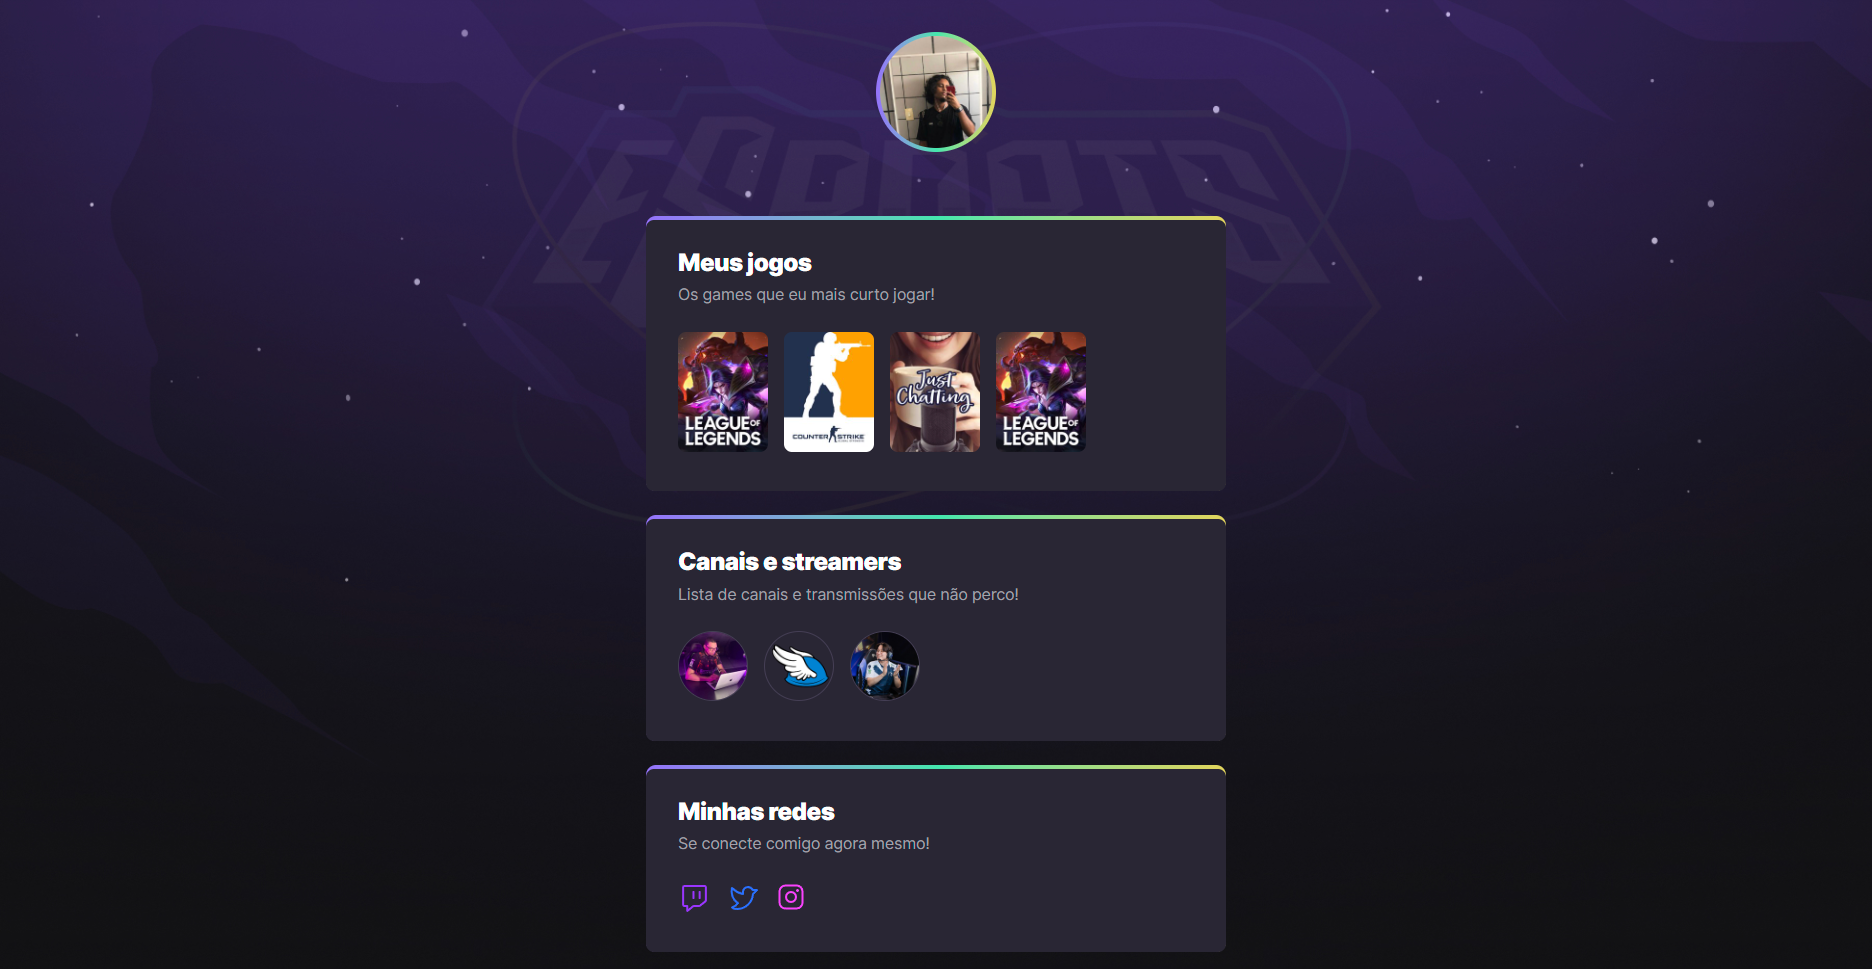
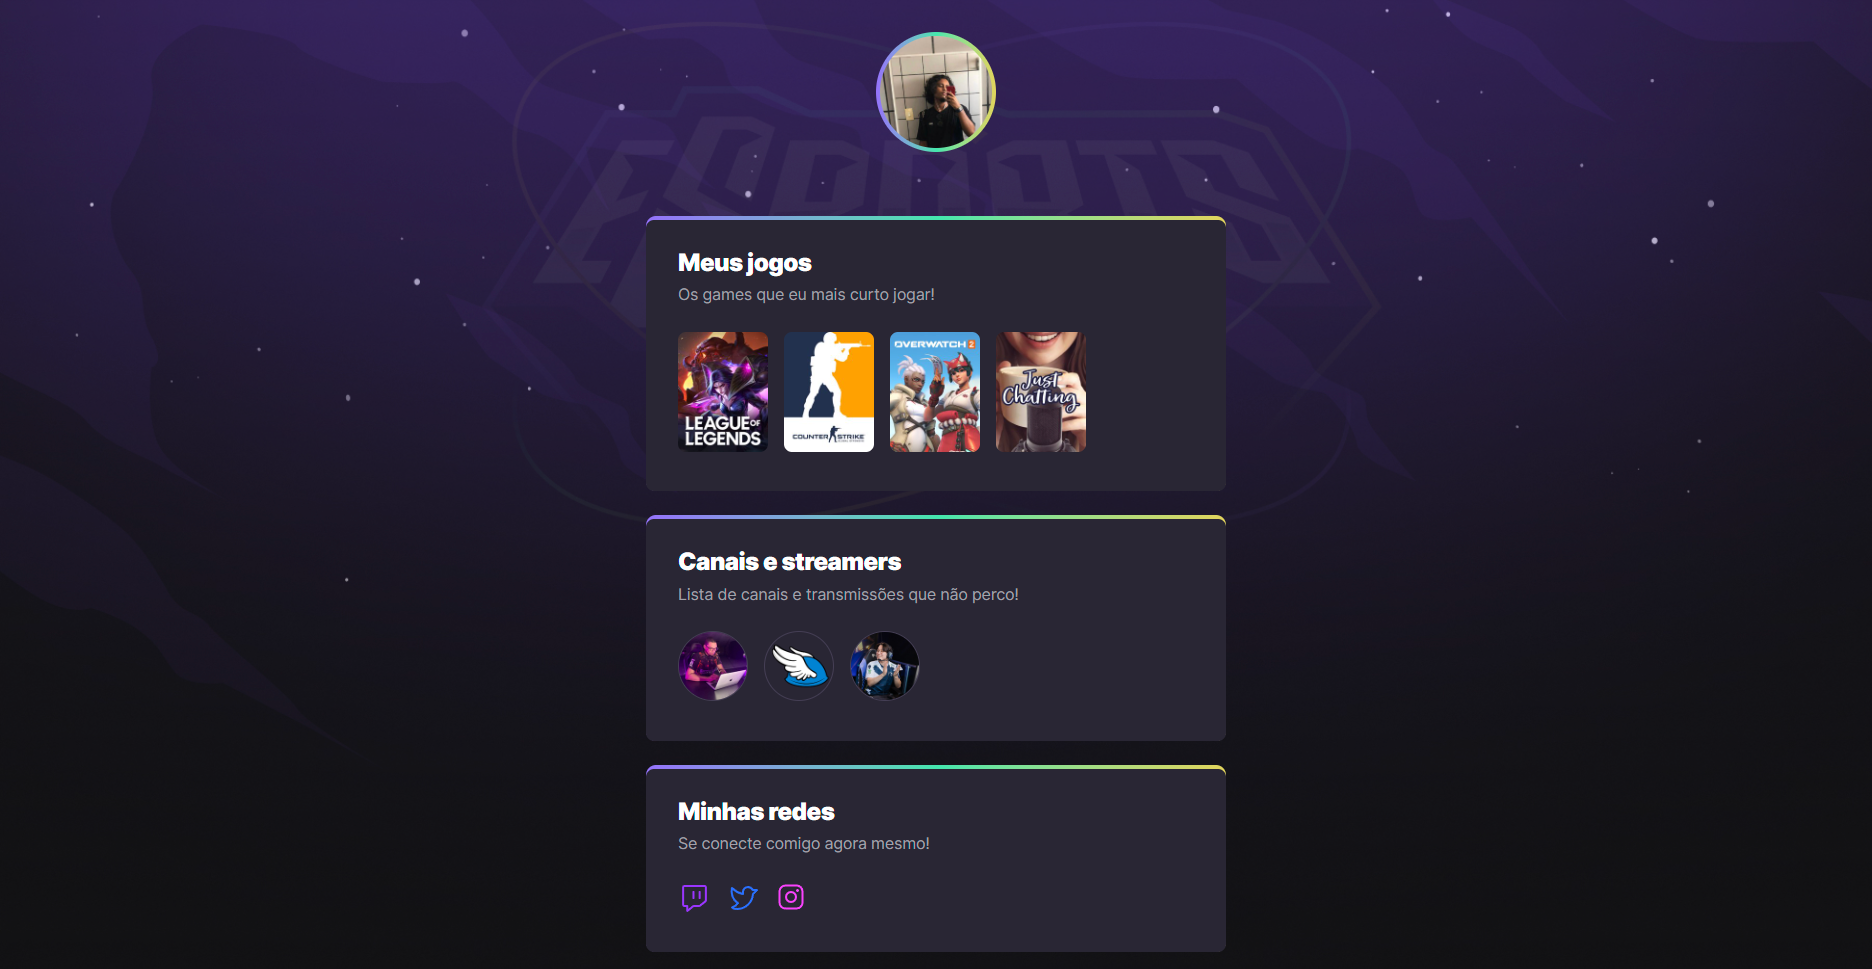
update readme

Changed region(s): [[0.4647, 0.3406, 0.5887, 0.4644]]

diff --git a/index.html b/index.html
@@ -58,7 +58,7 @@
                 target="_blank" 
                 href="https://www.twitch.tv/directory/game/Overwatch%202">
                   <img 
-                    src="https://static-cdn.jtvnw.net/ttv-boxart/509658-188x250.jpg" 
+                    src="https://static-cdn.jtvnw.net/ttv-boxart/515025_IGDB-188x250.jpg" 
                     alt="Imagem do jogo Overwatch 2"
                   >
               </a>
@@ -69,7 +69,7 @@
                 target="_blank" 
                 href="https://www.twitch.tv/directory/game/Just%20Chatting">
                   <img 
-                    src="https://static-cdn.jtvnw.net/ttv-boxart/21779-188x250.jpg" 
+                    src="https://static-cdn.jtvnw.net/ttv-boxart/509658-188x250.jpg" 
                     alt="Só conversa"
                   >
               </a>
